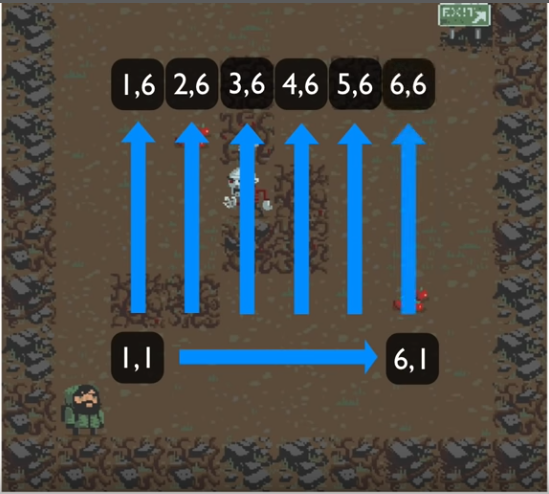
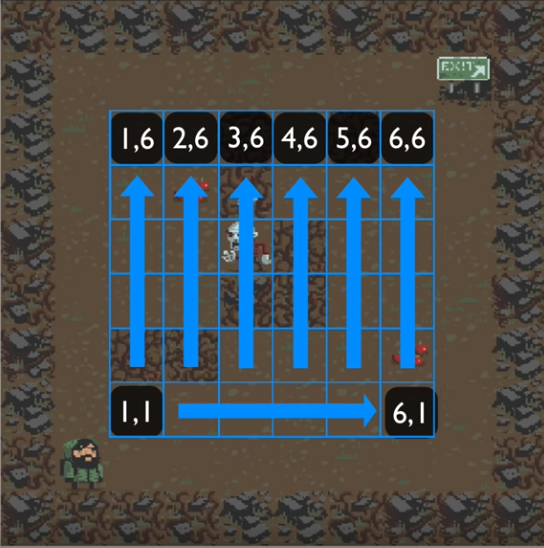
First Commit

diff --git a/README.md b/README.md
@@ -6,7 +6,7 @@ https://learn.unity.com/project/2d-roguelike-tutorial?language=en&courseId=5c87c
 ***
 GameManager schema :
 
-![GitHub Logo](...)
+![GitHub Logo](gridView.PNG)
 
 
 ***
